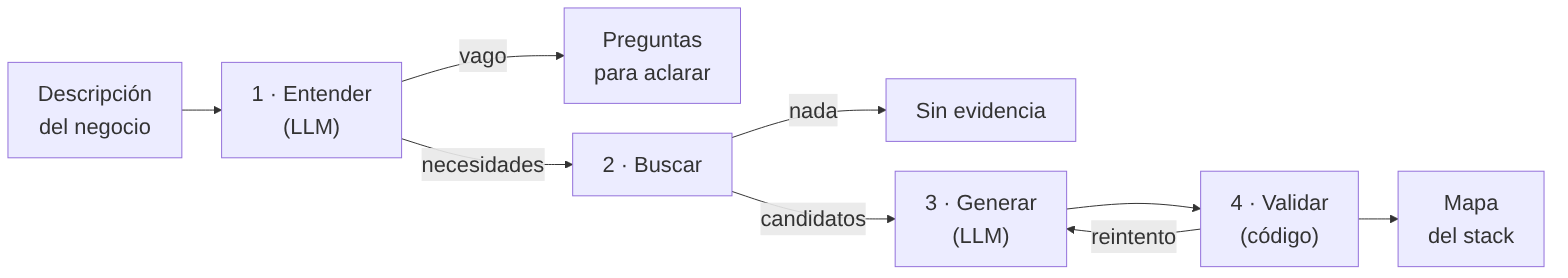
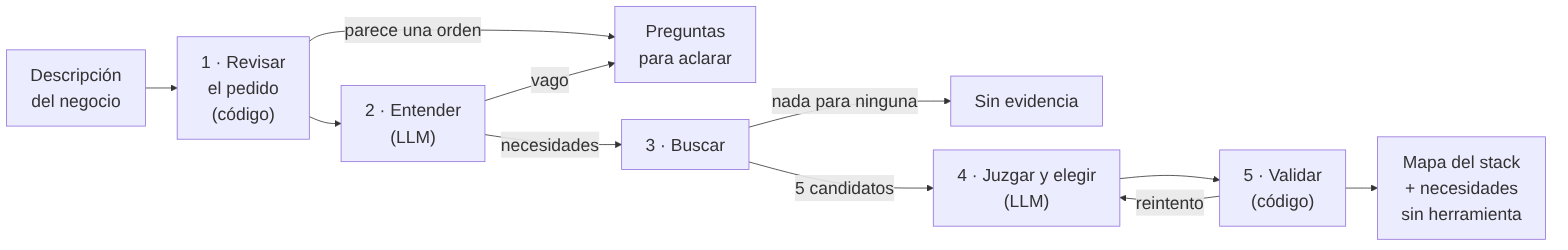
docs(ai): poner al día el estado del README y el diagrama del asistente (#129)

diff --git a/ai/README.md b/ai/README.md
@@ -10,25 +10,30 @@ desde la raíz del repo.
 
 ## Estado
 
-**Datos.** La IA lee el snapshot del catálogo real (`data/catalog/`, 100 repos de la vista
-`public.v_repos_for_ai`) con `load_repos()`. Los 20 repos de ejemplo (`data/repos.json`,
+**Datos.** El servicio del asistente lee el catálogo publicado en la base: la vista
+`public.v_repos_for_ai` más las tablas `ai.*` (127 repos). Si la base falla al arrancar, usa la
+copia en archivos (`data/catalog/`, snapshot del 2026-11-10), que es también la que leen las
+evaluaciones con `load_repos()` (ver [Servicio del asistente](#servicio-del-asistente)). Los 20 repos de ejemplo (`data/repos.json`,
 con categorías asignadas a mano) se conservan para pruebas y para repetir la elección del
 modelo de embeddings: `load_repos(source="sample")`.
 
 **Búsqueda semántica.** Dada la necesidad de un cliente en lenguaje natural (en español o inglés),
 devuelve los repos del catálogo más parecidos por significado, con filtros por licencia,
 health score y categoría. El texto de cada repo incluye el resumen y los casos de uso que
-genera la IA; umbral de "sin evidencia" 0,23 (detalle en
-[`eval/SEARCH_DECISION.md`](eval/SEARCH_DECISION.md)).
+genera la IA; umbral de "sin evidencia" 0,18 (detalle en
+[`eval/BASELINE_DECISION.md`](eval/BASELINE_DECISION.md)).
 
-**Evaluación de la búsqueda.** Dos golden sets (catálogo real y datos de ejemplo), métricas
-(hit@3, MRR, recall) y umbral de "sin evidencia", con un solo comando. Resultados y
-decisiones en [`eval/SEARCH_DECISION.md`](eval/SEARCH_DECISION.md).
+**Evaluación.** Conjuntos de desarrollo (para decidir) y una prueba final (se corre una vez,
+con la versión elegida), para la búsqueda y para el asistente, cada uno con quién lo escribió y
+para qué se usó. Métricas de búsqueda: hit@3, MRR, recall y umbral de "sin evidencia", con un
+solo comando. Las cifras vigentes, con su versión y denominador, están en
+[`eval/BASELINE_DECISION.md`](eval/BASELINE_DECISION.md); la historia de cada conjunto, en
+[`eval/README.md`](eval/README.md).
 
-**Casos de prueba del asistente.** 18 pedidos de negocio con el status, las necesidades y
-los repos aceptables esperados, escritos contra el snapshot del catálogo real, y 5 casos de
-validación aparte para comprobar reglas nuevas con pedidos que el prompt no vio. Detalle en
-[`eval/ASSISTANT_CASES.md`](eval/ASSISTANT_CASES.md).
+**Casos de prueba del asistente.** 19 pedidos de negocio con el status, las necesidades y
+los repos aceptables esperados (`assistant_cases.json`), 10 casos de validación aparte para
+comprobar reglas nuevas con pedidos que el prompt no vio, y los demás conjuntos de desarrollo y
+de prueba final. Detalle en [`eval/ASSISTANT_CASES.md`](eval/ASSISTANT_CASES.md).
 
 **Asistente.** `asistir()` responde un pedido en tres pasos: **entender** (modelo de lenguaje:
 necesidades o preguntas), **buscar** (embeddings, una búsqueda por necesidad: primero los repos
@@ -50,19 +55,19 @@ ataques; los pedidos corteses sin forma de orden todavía pasan. Detalle y lími
 razonamiento bajo. Criterios, comparación y descartados en
 [`eval/LLM_DECISION.md`](eval/LLM_DECISION.md).
 
-**Enriquecimiento del catálogo.** Los 100 repos tienen categorías (1 a 3 de
+**Enriquecimiento del catálogo.** Los 127 repos tienen categorías (1 a 3 de
 `categories.json`, la primera es la principal), un resumen en español (`summary_es`, hasta
 250 caracteres) y casos de uso (0 a 4, cada uno respaldado por una cita del README que el
-código comprueba). Los genera Gemini 3.5 Flash-Lite; se guardan en
+código comprueba). Los genera Gemini 3.5 Flash-Lite (prompt v5); se guardan en
 `data/catalog/enrichment.json` y en las tablas `ai.*`. Ver
 [Enriquecimiento del catálogo](#enriquecimiento-del-catálogo); elección del modelo en
 [`eval/ENRICH_DECISION.md`](eval/ENRICH_DECISION.md).
 
-**Ideas de integración.** 40 de los 100 repos tienen de 1 a 3 ideas (46 en total: `sdk`,
+**Ideas de integración.** 58 de los 127 repos tienen de 1 a 3 ideas (78 en total: `sdk`,
 `docker`, `rest_api`), cada una con una cita del README que el código comprueba y, cuando el
-README lo trae, un snippet copiado tal cual. Los otros 60 quedan sin ideas: la mayoría son
-herramientas de desarrollo, frameworks e infraestructura que no se conectan a una
-Se guardan en `data/catalog/ideas.json` y en `ai.ai_integration_ideas`. Verss
+README lo trae, un snippet copiado tal cual. Los otros 69 quedan sin ideas: la mayoría son
+herramientas de desarrollo, frameworks e infraestructura que no se conectan a una aplicación.
+Se guardan en `data/catalog/ideas.json` y en `ai.ai_integration_ideas`. Ver
 [Ideas de integración](#ideas-de-integración); método, números y límites en
 [`eval/IDEAS_DECISION.md`](eval/IDEAS_DECISION.md).
 
@@ -225,7 +230,7 @@ python -m uvicorn ai.service.app:create_app --factory --port 8001
 
 Al arrancar carga el catálogo, el modelo de embeddings y el índice (unos segundos) y muestra de
 dónde salió el catálogo y la cadena de proveedores
-(`listo: 100 repos (database), proveedores gemini → groq-low → claude-haiku`). No acepta pedidos
+(`listo: 127 repos (database), proveedores gemini → groq-low → claude-haiku`). No acepta pedidos
 hasta terminar. Con la base, revisa cada `AI_CATALOG_RELOAD_MINUTES` minutos (10 por defecto;
 0 = solo al arrancar) si se publicó algo nuevo y, si es así, recarga el catálogo sin reiniciar:
 un pedido en curso termina con el anterior. Si la revisión o la recarga fallan, sigue con el que
@@ -561,33 +566,3 @@ Nota: Pydantic normaliza `homepage` (por ejemplo, agrega `/` al final del domini
 ## Por acordar
 
 - Fórmula y rango de `health_score` (lo calcula la ingesta).
-
-
-## Escritura y revisión de ideas (PR #72)
-
-**Escribir en la base:**
-
-    python -m ai.scripts.write_ideas             # revisar que sea válido
-    python -m ai.scripts.write_ideas --escribir
-
-Es una sola transacción (todo o nada) y repetible. Solo reemplaza las ideas regenerables
-(`generated_by = 'llm'` y `reviewed_at` nulo) de los repos del archivo. Las revisadas o
-escritas por una persona nunca se tocan y ocupan cupo: como máximo 3 ideas por repo y una por
-tipo, contando las revisadas. Si el README de una idea revisada cambió desde que se revisó,
-el informe la muestra para revisarla de nuevo, sin tocarla.
-
-**Aprobar ideas revisadas:** una persona lee la idea en la ficha o en `ideas.json` y, si está
-bien sin cambios, la aprueba:
-
-    python -m ai.scripts.review_ideas --aprobar llm-<github_id>-<n> …             # comprueba
-    python -m ai.scripts.review_ideas --aprobar llm-<github_id>-<n> … --escribir  # marca
-
-Pone `reviewed_at`; desde ahí la regeneración no la toca. La tabla no guarda quién la revisó.
-Verificación después de escribir: `ai/sql/consultas/ideas_ia.sql` y `huerfanos_ia.sql`.
-
-**Qué lee la API del catálogo:** todas las columnas de `ai.ai_integration_ideas` (las del
-contrato `IntegrationIdea` más `github_id` para unir; `full_name` lo pone la API), ordenadas
-por `id`, como máximo 3 por repo, y nada de los repos archivados. El rol de lectura de la API
-necesita `USAGE` en el esquema `ai` y `SELECT` sobre `ai.ai_repo_enrichment`,
-`ai.ai_repo_categories` y `ai.ai_integration_ideas` (no sobre `ai.ai_embeddings`, que es
-interna de la IA).
